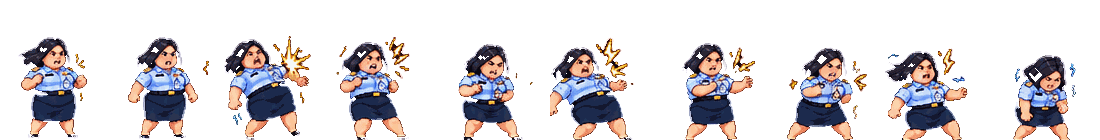
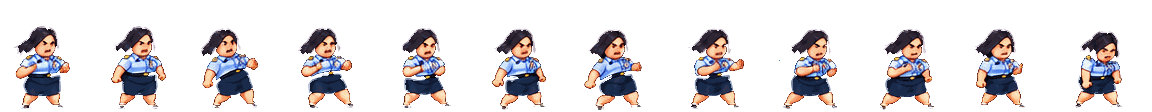
v70: YOTA re-cut from the boxed walk-cycle sheet — walk, clean frames, sheet VFX
Claude-Session: https://claude.ai/code/session_01VFZcD5MpvnMAPzCcrJgChf

diff --git a/public/js/ql2/yota.js b/public/js/ql2/yota.js
@@ -21,22 +21,27 @@
    ========================================================================== */
 (function(){
   const YT = BALANCE.YOTA, pc = x => `+${BALANCE.pct(x)}%`, K = 'yota', SVGNS = 'http://www.w3.org/2000/svg';
-  const S = 1.7;   // sprite scale (also used for the hand / palm positions below)
-  HERO_SPRITE.yota = { dir:'heroes/yota/', ch:140, scale:S, face:'-30 -180 64 64',
+  const S = 2;   // sprite scale (also used for the hand / palm positions below)
+  // v69b: re-cut from "Meshy AI · sprite sheet with walk cycle" (boxed frames, clean poses, isolated VFX)
+  HERO_SPRITE.yota = { dir:'heroes/yota/', ch:112, scale:S, face:'-32 -178 68 68',
     anims:{
-      idle:   { n:12, cw:84,  ax:40, dur:1.6, loop:true },
-      walk:   { n:12, cw:84,  ax:40, dur:.8,  loop:true },
-      hurt:   { n:10, cw:110, ax:52, dur:.8 },
-      dead:   { n:10, cw:170, ax:75, dur:1.5 },
-      push:   { n:9,  cw:120, ax:42, dur:.7,  th:'ส่งค่าเช่าบ้านยัง!!!' },
-      palm:   { n:4,  cw:120, ax:42, dur:.45, th:'ฝ่ามือทวงหนี้' },
-      charge: { n:12, cw:120, ax:42, dur:1.0, th:'ชาร์จลำแสง' },
-      fire:   { n:1,  cw:120, ax:42, dur:.6,  th:'ลำแสงค่าเช่า' },
-      recover:{ n:6,  cw:120, ax:42, dur:.6,  th:'ปัดฝุ่น' } },
-    attacks:['palm','charge'], extra:['push','recover'], demoOnly:true, finisher:'fire', finMin:99,
+      idle:   { n:12, cw:80,  ax:38, dur:1.6, loop:true },
+      walk:   { n:12, cw:80,  ax:38, dur:1.0, loop:true, th:'เดิน' },
+      hurt:   { n:12, cw:96,  ax:42, dur:.8 },
+      dead:   { n:10, cw:120, ax:60, dur:1.5 },
+      push:   { n:9,  cw:96,  ax:38, dur:.7,  th:'ส่งค่าเช่าบ้านยัง!!!' },
+      palm:   { n:5,  cw:96,  ax:38, dur:.45, th:'ฝ่ามือทวงหนี้' },
+      charge: { n:6,  cw:96,  ax:38, dur:.6,  th:'ชาร์จลำแสง' },
+      fire:   { n:12, cw:96,  ax:38, dur:1.0, loop:true, th:'ลำแสงค่าเช่า' },
+      recover:{ n:15, cw:96,  ax:38, dur:1.0, th:'ปัดฝุ่น' } },
+    attacks:['palm','charge'], extra:['push','recover','walk'], demoOnly:true, finisher:'fire', finMin:99,
     finNote:`ท่าเปลี่ยนตามความยาวคำ: <b>3–4 ตัว</b> ฝ่ามือทวงหนี้ · <b>5–6 ตัว</b> ลำแสงค่าเช่า ${pc(YT.beam)} · <b>7 ตัวขึ้นไป / Critical</b> ไฮเปอร์บีมยึดบ้าน ${pc(YT.hyper)} ทะลุศัตรูที่รอคิว · ศัตรูรอดแต่ละเทิร์นค้างหนี้ 📄 เพิ่ม` };
-  const HAND = { x: Math.round((89-42)*S), y: Math.round((137-75)*S) };    // arm stretched (fire frame)
-  const PALM = { x: Math.round((62-42)*S), y: Math.round((137-85)*S) };    // orb in the palm
+  const HAND = { x: (72-38)*S, y: (109-54)*S };    // arm stretched (fire frames)
+  const PALM = { x: (66-38)*S, y: (109-60)*S };    // the palm while charging / shoving
+  // isolated effects from the sheet (square cells)
+  const FXS = { orb:{ w:44, n:12 }, ring:{ w:64, n:5 }, dissolve:{ w:66, n:24 } };
+  Object.keys(FXS).forEach(k => { const i = new Image(); i.src = `heroes/yota/fx_${k}.png?v=${HERO_IMG_VER}`; });
+  const sfxStrip = (k, o) => { const F = FXS[k]; try{ return window.QL_STRIP_FX ? QL_STRIP_FX(`heroes/yota/fx_${k}.png`, F.w, F.w, F.n, o) : null; }catch(e){ return null; } };
   // the same visibility rules the engine builds for its own sprite heroes (index.html sprCSS)
   (function(){
     const c = HERO_SPRITE[K]; let css = '';
@@ -54,7 +59,7 @@
     const st = document.createElement('style'); st.textContent = css; document.head.appendChild(st);
     Object.keys(c.anims).forEach(n => { const i = new Image(); i.src = `${c.dir}${n}.png?v=${HERO_IMG_VER}`; });
   })();
-  try{ HERO_PORTRAIT.yota = { src:'heroes/yota/portrait.png', w:44, h:44, vb:'0 0 44 44' }; }catch(e){}
+  try{ HERO_PORTRAIT.yota = { src:'heroes/yota/portrait.png', w:34, h:34, vb:'0 0 34 34' }; }catch(e){}
 
   CHARACTERS.push({ id:K, devOnly:true, name:'YOTA', th:'โยตะ ผู้กองทวงค่าเช่า', price:5500, role:'ลำแสง · ทวงหนี้', skill:'ลำแสงทวงค่าเช่า',
     desc:`ก่อนสู้ทุกด่านยื่นมือทวง "ส่งค่าเช่าบ้านยัง!!!" · 3–4 ตัว ฝ่ามือทวงหนี้ · 5–6 ตัว ลำแสงค่าเช่า ${pc(YT.beam)} · 7 ตัวขึ้นไปหรือ Critical ไฮเปอร์บีมยึดบ้าน ${pc(YT.hyper)} ทะลุศัตรูที่รอคิว ${BALANCE.pct(YT.pierce)}% · ดอกเบี้ยค้างจ่าย: ศัตรูรอดแต่ละเทิร์นค้างหนี้ 📄 +1 (สูงสุด ${YT.debtMax}) ใบละ ${pc(YT.debtPer)} · ลำแสง (5 ตัวขึ้นไป) เก็บค่าเช่า ล้างหนี้ + ฟื้น HP ${BALANCE.pct(YT.healPer)}% ต่อใบ`,
@@ -130,7 +135,7 @@
     const W = w + 34, H = size + 22;
     box.setAttribute('x', -W/2); box.setAttribute('y', -H/2); box.setAttribute('width', W); box.setAttribute('height', H);
     // sits beside her head, the tail points back at her mouth
-    const x = opts.x || HERO_X + 30 + W/2, y = opts.y || FLOOR_Y - 158;
+    const x = opts.x || HERO_X + 30 + W/2, y = opts.y || FLOOR_Y - 138;
     tail.setAttribute('transform', `translate(${-W/2 + 6},4)`);
     g.appendChild(tail); g.appendChild(box); g.appendChild(t);   // tail behind the box
     g.insertBefore(tail, box);
@@ -171,14 +176,22 @@
     g.remove();
   }
   function orbShot(x1, y1, x2, y2, s){
-    const g = el('g', {});
-    el('circle', { r:30*s, fill:'#1f5bff', opacity:.35 }, g);
-    el('circle', { r:19*s, fill:'#4fc8ff' }, g);
-    el('circle', { r:10*s, fill:'#fff' }, g);
-    el('ellipse', { rx:12*s, ry:32*s, fill:'none', stroke:'#c8f6ff', 'stroke-width':3 }, g);
     const iv = setInterval(() => bits(x1 + (x2-x1)*Math.random(), y1 + (y2-y1)*Math.random(), 2, 30), 50);
-    return anim(g, [{transform:tr(x1,y1)+' scale(.5)'},{transform:tr(x1+30,y1)+' scale(1.1)',offset:.15},{transform:tr(x2,y2)+' scale(1)'}], { duration:300, easing:'ease-in' })
-      .then(() => { clearInterval(iv); g.remove(); });
+    const o = sfxStrip('orb', { x:x1, y:y1, scale:1.6*s, loop:true, from:6, loopFrom:6, to:11, ms:45 });
+    let g = o;
+    if(!g){
+      g = el('g', {});
+      el('circle', { r:30*s, fill:'#1f5bff', opacity:.35 }, g);
+      el('circle', { r:19*s, fill:'#4fc8ff' }, g);
+      el('circle', { r:10*s, fill:'#fff' }, g);
+    }
+    return anim(g, [{transform:tr(x1,y1)},{transform:tr(x1+30,y1),offset:.15},{transform:tr(x2,y2)}], { duration:300, easing:'ease-in', fill:'forwards' })
+      .then(() => { clearInterval(iv); o ? o._stop() : g.remove(); });
+  }
+  // a glowing orb grows in her palm (sheet VFX 01–09)
+  function chargeOrb(x, y, ms, scale){
+    const g = sfxStrip('orb', { x, y, scale:scale||1.6, from:0, to:8, ms:Math.max(30, Math.round(ms/9)) });
+    return g;
   }
   // the palm gathers particles (charging)
   function gather(x, y, n, ms){
@@ -257,6 +270,7 @@
       floatText(rude ? 'ฝ่ามือ…หยาบ!' : 'ฝ่ามือทวงหนี้!', HERO_X+40, FLOOR_Y-205, rude ? '#9dff4a' : '#cfe8ff', 22, true);
       heroPose('pose-palm', sprMs('palm', 450)+260);
       gather(HERO_X + PALM.x, FLOOR_Y - PALM.y, 8, 300);
+      chargeOrb(HERO_X + PALM.x + 6, FLOOR_Y - PALM.y, 220, 1.3);
       await sleep(220); zap(false);
       await orbShot(HERO_X + PALM.x + 10, FLOOR_Y - PALM.y, EN_X - 30, ty, 1);
       ringBurst(EN_X - 20, ty, .9); shake();
@@ -267,6 +281,7 @@
       floatText('ลำแสงค่าเช่า!!', HERO_X+40, FLOOR_Y-215, '#8fe6ff', 28, true);
       heroPose('pose-charge', 760);
       gather(HERO_X + PALM.x, FLOOR_Y - PALM.y, 14, 600);
+      setTimeout(() => chargeOrb(HERO_X + PALM.x + 6, FLOOR_Y - PALM.y, 560, 1.7), 120);
       try{ sfx.power(); }catch(err){}
       await sleep(620);
       heroPose('pose-fire', 900);
@@ -283,8 +298,9 @@
     dim(true, 260);
     floatText(giga ? 'GIGA RENT CANNON!!!' : 'ไฮเปอร์บีมยึดบ้าน!!!', HERO_X+70, FLOOR_Y-250, giga ? '#ffe14a' : '#8fe6ff', giga ? 34 : 32, true);
     if(!giga) floatText('HYPER EVICTION BEAM', HERO_X+70, FLOOR_Y-215, '#cfe8ff', 16, true);
-    heroPose('pose-charge', sprMs('charge', 1000)+250);
-    gather(HERO_X + 4, FLOOR_Y - 85, giga ? 40 : 26, 900);
+    heroPose('pose-charge', 1300);
+    gather(HERO_X + PALM.x, FLOOR_Y - PALM.y, giga ? 40 : 26, 900);
+    setTimeout(() => chargeOrb(HERO_X + PALM.x + 8, FLOOR_Y - PALM.y, 950, giga ? 3 : 2.4), 80);
     try{ sfx.power(); tone2(120, 900, 1, 'sawtooth', .06); }catch(err){}
     if(giga){ ['ค่าเช่า!','ค่าน้ำ!','ค่าไฟ!!!'].forEach((t,i) => setTimeout(() => floatText(t, HERO_X - 40 + i*95, FLOOR_Y - 170 - i*14, ['#ff8a8a','#8fd8ff','#ffe14a'][i], 26, true), 220 + i*260)); }
     await sleep(1050);
@@ -386,17 +402,19 @@
 
   // defeat: she falls, then dissolves into blue pixels (the sheet's digital fade)
   heroDies = (f => async function(){
-    if(isYota()){
-      setTimeout(() => {
-        for(let k=0;k<26;k++){
-          const s = rint(4,10), r = el('rect', { x:-s/2, y:-s/2, width:s, height:s, fill:k%3?'#5fd0ff':'#fff' });
-          const x = HERO_X + rint(-60, 70), y = FLOOR_Y - rint(0, 40);
-          anim(r, [{transform:tr(x,y),opacity:0},{transform:tr(x,y-20),opacity:1,offset:.2},{transform:tr(x+rint(-20,20), y-rint(80,170)),opacity:0}], { duration:rint(800,1400), delay:rint(0,500), easing:'ease-out' }).then(()=>r.remove());
-        }
-        const ring = el('ellipse', { rx:60, ry:12, fill:'none', stroke:'#5fd0ff', 'stroke-width':4 });
-        anim(ring, [{transform:tr(HERO_X,FLOOR_Y)+' scale(.3)',opacity:1},{transform:tr(HERO_X,FLOOR_Y)+' scale(1.4)',opacity:0}], { duration:1100, easing:'ease-out' }).then(()=>ring.remove());
-      }, 650);
-    }
+    const b = ui.bat;
+    if(!isYota() || !b || b.over) return f.apply(this, arguments);
+    b.over = true; b.busy = true;
+    const a = $('#heroA');
+    if(a){ a.classList.add('dead'); sprRestart('dead'); }
+    try{ sfx.hurt(); }catch(err){}
+    await sleep(sprMs('dead', 1500) + 150);
+    const d = sfxStrip('dissolve', { x:HERO_X, y:FLOOR_Y + 10, anchor:'b', scale:2.6, ms:55 });
+    try{ tone2(900, 200, 1.1, 'triangle', .07); noise(.6, .08); }catch(err){}
+    if(a) anim(a, [{opacity:1},{opacity:1,offset:.25},{opacity:0}], { duration:900, easing:'ease-in', fill:'forwards' });
+    if(!d) bits(HERO_X, FLOOR_Y - 30, 26, 120);
+    await sleep(1100);
+    b.over = false;           // let the engine run its own defeat (sets it again)
     return f.apply(this, arguments);
   })(heroDies);
 

diff --git a/public/index.html b/public/index.html
@@ -9,9 +9,9 @@
 <meta name="apple-mobile-web-app-title" content="LETTERⁿ">
 <meta name="theme-color" content="#08070f">
 <meta name="description" content="LETTERⁿ — เกมสะกดคำภาษาอังกฤษสู้มอนสเตอร์">
-<link rel="manifest" href="manifest.json?v=69">
-<link rel="icon" href="icons/icon-192.png?v=69">
-<link rel="apple-touch-icon" href="icons/apple-touch-icon.png?v=69">
+<link rel="manifest" href="manifest.json?v=70">
+<link rel="icon" href="icons/icon-192.png?v=70">
+<link rel="apple-touch-icon" href="icons/apple-touch-icon.png?v=70">
 <meta name="apple-mobile-web-app-capable" content="yes">
 <title>LETTERⁿ — Word Battle RPG</title>
 <link rel="preconnect" href="https://fonts.googleapis.com">
@@ -1333,20 +1333,20 @@ button,.tile{touch-action:manipulation;-webkit-tap-highlight-color:transparent}
   .modal-box,.sheet{max-height:92vh;overflow-y:auto}
 }
 </style>
-<link rel="stylesheet" href="css/ql2.css?v=69">
-<link rel="stylesheet" href="css/endgame.css?v=69">
-<link rel="stylesheet" href="css/battle.css?v=69">
-<link rel="stylesheet" href="css/ui26.css?v=69">
-<link rel="stylesheet" href="css/boss.css?v=69">
-<link rel="stylesheet" href="css/tactics.css?v=69">
-<link rel="stylesheet" href="css/ecl.css?v=69">
+<link rel="stylesheet" href="css/ql2.css?v=70">
+<link rel="stylesheet" href="css/endgame.css?v=70">
+<link rel="stylesheet" href="css/battle.css?v=70">
+<link rel="stylesheet" href="css/ui26.css?v=70">
+<link rel="stylesheet" href="css/boss.css?v=70">
+<link rel="stylesheet" href="css/tactics.css?v=70">
+<link rel="stylesheet" href="css/ecl.css?v=70">
 </head>
 <body>
 <div id="app"></div>
-<script src="js/ql2/balance.js?v=69"></script>
-<script src="data/lexicon.js?v=69"></script>
-<script src="data/vocabulary.js?v=69"></script>
-<script src="js/ql2/vocab.js?v=69"></script>
+<script src="js/ql2/balance.js?v=70"></script>
+<script src="data/lexicon.js?v=70"></script>
+<script src="data/vocabulary.js?v=70"></script>
+<script src="js/ql2/vocab.js?v=70"></script>
 <script>window.__QL2 = 1; setTimeout(function(){ if(!window.__QL2_READY && typeof render==='function'){ window.__QL2 = 0; render(); } }, 5000);</script>
 <div class="toasts" id="toasts"></div>
 <div id="overlay"></div>
@@ -1794,7 +1794,7 @@ const ARMOR_OV = {
 */
 const HERO_IMG = {
 };
-const HERO_IMG_VER = 22; // เปลี่ยนภาพแล้วภาพเก่ายังค้าง → เพิ่มเลขนี้ทีละ 1
+const HERO_IMG_VER = 23; // เปลี่ยนภาพแล้วภาพเก่ายังค้าง → เพิ่มเลขนี้ทีละ 1
 function heroImgSVG(cfg){
   const h = cfg.h || 160, w = h, x = -w/2 + (cfg.dx||0), y = -h + (cfg.dy||0);
   const src = cfg.src + (cfg.src.includes('?') ? '&' : '?') + 'v=' + HERO_IMG_VER;
@@ -6076,7 +6076,7 @@ render();
 setMusic(save.settings.music);
 if('serviceWorker' in navigator && location.protocol.startsWith('http')) navigator.serviceWorker.register('service-worker.js', { updateViaCache:'none' }).then(r=>{ window.__swReg = r; }).catch(()=>{});
 /* v66: never run a half-updated game — if the server has a newer version, reload once (not in the middle of a battle / exam) */
-const APP_VERSION = 69;
+const APP_VERSION = 70;
 (function(){
   let busy = false;
   async function check(){
@@ -7069,40 +7069,40 @@ document.documentElement.classList.add('v16');
 if(ui.screen!=='battle') render();
 </script>
 <!-- Quest Lines 2.0 — World & Progression (loaded after the game; wraps it, never replaces the battle) -->
-<script src="js/ql2/core.js?v=69"></script>
-<script src="js/ql2/quests.js?v=69"></script>
-<script src="js/ql2/shell.js?v=69"></script>
-<script src="js/ql2/settings.js?v=69"></script>
-<script src="js/ql2/hub.js?v=69"></script>
-<script src="js/ql2/world.js?v=69"></script>
-<script src="js/ql2/questboard.js?v=69"></script>
-<script src="js/ql2/heroes.js?v=69"></script>
-<script src="js/ql2/inventory.js?v=69"></script>
-<script src="js/ql2/codex.js?v=69"></script>
-<script src="js/ql2/profile.js?v=69"></script>
-<script src="js/ql2/endgame-core.js?v=69"></script>
-<script src="js/ql2/endgame-modes.js?v=69"></script>
-<script src="js/ql2/endgame-ui.js?v=69"></script>
-<script src="js/ql2/armory.js?v=69"></script>
-<script src="js/ql2/items.js?v=69"></script>
-<script src="js/ql2/more.js?v=69"></script>
-<script src="js/ql2/wordfx.js?v=69"></script>
-<script src="js/ql2/boss-encounter.js?v=69"></script>
-<script src="js/ql2/zombies.js?v=69"></script>
-<script src="js/ql2/bestiary.js?v=69"></script>
-<script src="js/ql2/kirby.js?v=69"></script>
-<script src="js/ql2/knight.js?v=69"></script>
-<script src="js/ql2/unlocks.js?v=69"></script>
-<script src="js/ql2/tactics.js?v=69"></script>
-<script src="js/ql2/events.js?v=69"></script>
-<script src="js/ql2/ecl.js?v=69"></script>
-<script src="js/ql2/luffy.js?v=69"></script>
-<script src="js/ql2/sonic.js?v=69"></script>
-<script src="js/ql2/heroplus.js?v=69"></script>
-<script src="js/ql2/heroup.js?v=69"></script>
-<script src="js/ql2/ultcharge.js?v=69"></script>
-<script src="js/ql2/yota.js?v=69"></script>
-<script src="js/ql2/title.js?v=69"></script>
-<script src="js/ql2/dev.js?v=69"></script>
-<script src="js/ql2/boot.js?v=69"></script>
+<script src="js/ql2/core.js?v=70"></script>
+<script src="js/ql2/quests.js?v=70"></script>
+<script src="js/ql2/shell.js?v=70"></script>
+<script src="js/ql2/settings.js?v=70"></script>
+<script src="js/ql2/hub.js?v=70"></script>
+<script src="js/ql2/world.js?v=70"></script>
+<script src="js/ql2/questboard.js?v=70"></script>
+<script src="js/ql2/heroes.js?v=70"></script>
+<script src="js/ql2/inventory.js?v=70"></script>
+<script src="js/ql2/codex.js?v=70"></script>
+<script src="js/ql2/profile.js?v=70"></script>
+<script src="js/ql2/endgame-core.js?v=70"></script>
+<script src="js/ql2/endgame-modes.js?v=70"></script>
+<script src="js/ql2/endgame-ui.js?v=70"></script>
+<script src="js/ql2/armory.js?v=70"></script>
+<script src="js/ql2/items.js?v=70"></script>
+<script src="js/ql2/more.js?v=70"></script>
+<script src="js/ql2/wordfx.js?v=70"></script>
+<script src="js/ql2/boss-encounter.js?v=70"></script>
+<script src="js/ql2/zombies.js?v=70"></script>
+<script src="js/ql2/bestiary.js?v=70"></script>
+<script src="js/ql2/kirby.js?v=70"></script>
+<script src="js/ql2/knight.js?v=70"></script>
+<script src="js/ql2/unlocks.js?v=70"></script>
+<script src="js/ql2/tactics.js?v=70"></script>
+<script src="js/ql2/events.js?v=70"></script>
+<script src="js/ql2/ecl.js?v=70"></script>
+<script src="js/ql2/luffy.js?v=70"></script>
+<script src="js/ql2/sonic.js?v=70"></script>
+<script src="js/ql2/heroplus.js?v=70"></script>
+<script src="js/ql2/heroup.js?v=70"></script>
+<script src="js/ql2/ultcharge.js?v=70"></script>
+<script src="js/ql2/yota.js?v=70"></script>
+<script src="js/ql2/title.js?v=70"></script>
+<script src="js/ql2/dev.js?v=70"></script>
+<script src="js/ql2/boot.js?v=70"></script>
 </body></html>

diff --git a/public/service-worker.js b/public/service-worker.js
@@ -1,5 +1,5 @@
-const CACHE_NAME = 'quest-lines-v69';
-const V = '?v=69';
+const CACHE_NAME = 'quest-lines-v70';
+const V = '?v=70';
 const MODULES = ['balance','vocab','core','quests','shell','settings','hub','world','questboard','heroes','inventory','codex','profile','endgame-core','endgame-modes','endgame-ui','armory','items','more','wordfx','boss-encounter','zombies','bestiary','kirby','knight','unlocks','tactics','events','ecl','luffy','sonic','heroplus','heroup','ultcharge','yota','title','dev','boot'];
 const APP_SHELL = ['./', './index.html', './manifest.json', './scenes/hub/cave.png', './title/logo.webp', './npc/merchant.png', './icons/icon-192.png', './icons/icon-512.png', './css/ql2.css' + V, './css/endgame.css' + V, './css/battle.css' + V, './css/ui26.css' + V, './css/boss.css' + V, './css/tactics.css' + V, './css/ecl.css' + V,
   './data/lexicon.js' + V, './data/vocabulary.js' + V,

diff --git a/README.md b/README.md
@@ -21,7 +21,8 @@
 - **ท่าตามความยาวคำ:** 3–4 ตัว ฝ่ามือทวงหนี้ (ลูกพลังสีฟ้า) · 5–6 ตัว ลำแสงค่าเช่า +20% · 7 ตัวขึ้นไป / Critical **ไฮเปอร์บีมยึดบ้าน** +35% ฉากมืด ลำแสงยักษ์ทะลุจอ ทะลุศัตรูที่รอคิว 2 ตัว (25% · บอสเหลืออย่างน้อย 1 HP)
 - **ดอกเบี้ยค้างจ่าย 📄:** ศัตรูรอดแต่ละเทิร์นค้างหนี้ +1 ใบ (สูงสุด 5) ใบละ +6% · ลำแสง (5 ตัวขึ้นไป) **เก็บค่าเช่า** ล้างหนี้ + ฟื้น HP 3% ต่อใบ · แสดงในแผงศัตรู
 - ⚔ Ultimate: **GIGA RENT CANNON** (ค่าเช่า! ค่าน้ำ! ค่าไฟ!!!) · Ultimate แท็กติก: **หมายศาลยึดบ้าน** แปะหมายแล้วปั๊ม "ยึด!" หนี้เต็ม 5 ใบ + ศัตรูมึนงง 1 เทิร์น + ขัดท่า · เกจเฉพาะตัว RENT DUE (เก็บหนี้ 3 ใบขึ้นไป / ไฮเปอร์บีม)
-- ตอนแพ้ร่างสลายเป็นพิกเซลสีฟ้า · ตัวเลขทั้งหมดอยู่ที่ `BALANCE.YOTA`
+- ตอนแพ้ล้มลงแล้วร่างสลายเป็นพิกเซลสีฟ้า (VFX จากชีต) ก่อนขึ้นหน้าพ่ายแพ้ · ตัวเลขทั้งหมดอยู่ที่ `BALANCE.YOTA`
+- **v70 (อัปเดต YOTA):** ตัดสไปรต์ใหม่จากชีตเวอร์ชันมีกรอบ (walk cycle) — ภาพสะอาดไม่ขาด/เกิน · เพิ่มท่าเดิน 12 เฟรม · ท่ายิงลำแสง 12 เฟรมขยับต่อเนื่อง · ลูกพลังในมือ/ลูกพลังที่ยิง/การสลายร่าง ใช้ VFX ของชีตเอง (`fx_orb`, `fx_dissolve`)
 - เริ่มเป็น `devOnly:true` (เห็นเฉพาะโหมดทดสอบ) — ปล่อยให้ผู้เล่นทั่วไปได้โดยลบ `devOnly:true` ใน `CHARACTERS.push` ของ `yota.js` · ปลดล็อก: ผ่านบท 3 + เลือก 2 ใน 3 (คำยาว 25 · Ultimate 10 · Flawless 3) · 5,500 ทอง
 
 ## ⚡ ใหม่ใน v68 — ULTIMATE 2.0 (`js/ql2/ultcharge.js`)

diff --git a/public/heroes/README.md b/public/heroes/README.md
@@ -68,7 +68,6 @@ pip · mira · rook · bastion · luma · bruna · kiko · boomtos · puff
 - เอฟเฟกต์ (แถบหลายเฟรม): `muzzle` แสงปากกระบอก · `lemon` ไม่ชาร์จ · `ring` x1 · `pink` x2 · `xfire` x3 · `lvl4` x4+ (ใหญ่ขึ้นเรื่อยๆ) · `burstB/burstP` ระเบิดตอนโดน · `aura` ประกายชาร์จรอบตัว · `bubble` วงแหวนตอนแพ้ · `mug.png` ไอคอน HP
 
 ## YOTA — โฟลเดอร์ `heroes/yota/`
-- ตัดจาก "Meshy AI · Detailed Smooth Boss Sprite Sheet" (ชีตที่ผู้พัฒนาให้มา) — ลบพื้นดำ จัดเท้าชิดขอบล่าง ช่องสูง `ch:140` ขยาย `scale:1.7` (ภาพเรียบ ใช้ `image-rendering:auto`)
-- ชีตต้นฉบับเลขกำกับไม่ตรงกับรูปทุกแถว (เช่นแถวโดนตีมี 10 รูปแต่มีเลข 12) จึงตัดตามตำแหน่งตัวละครจริง
-- ท่า: idle 12 · walk (= idle เร็วขึ้น) · hurt 10 · dead 10 (ล้มลงนอน) · push 9 (ดันมือก่อนสู้) · palm 4 (ลูกพลังในมือ) · charge 12 (ชาร์จจนเป็นลูกโลก) · fire 1 (ยื่นแขน ลำแสงวาดด้วยโค้ด) · recover 6
-- ลำแสง / วงแหวน / พิกเซลสีฟ้า / ลูกโป่งคำพูด วาดด้วย SVG ใน `yota.js` · `portrait.png` = หน้าในไอคอน HP
+- ตัดจาก "Meshy AI · sprite sheet with walk cycle" (ชีตที่ผู้พัฒนาให้มา แต่ละเฟรมอยู่ในกรอบ) — ลบพื้นดำและเส้นกรอบ จัดเท้าชิดขอบล่าง ช่องสูง `ch:112` ขยาย `scale:2` (ภาพเรียบ ใช้ `image-rendering:auto`)
+- ท่า: idle 12 · walk 12 · hurt 12 · dead 10 (ล้มลงนอน) · push 9 (ดันมือก่อนสู้) · palm 5 · charge 6 · fire 12 (ยื่นแขนดัน วนซ้ำระหว่างยิง) · recover 15
+- VFX (ช่องสี่เหลี่ยม): `fx_orb` 12 (ลูกพลังโตขึ้น) · `fx_ring` 5 · `fx_dissolve` 24 (ร่างสลาย) · ลำแสงยาว/ลูกโป่งคำพูดวาดด้วย SVG ใน `yota.js` · `portrait.png` = หน้าในไอคอน HP
